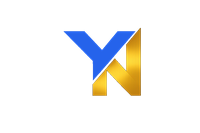
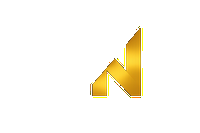
Use white Y in monogram and gold II in navbar wordmark.
Swap to a dark Y variant on the scrolled header so the mark stays visible on white backgrounds.

Changed region(s): [[0.3, 0.2105, 0.72, 0.7519]]

diff --git a/assets/js/main.js b/assets/js/main.js
@@ -3,11 +3,17 @@
   const menuButton = document.querySelector("[data-menu-button]");
   const navLinks = document.getElementById("site-nav");
   const hero = document.querySelector(".hero");
+  const markImg = document.querySelector(".brand-mark-img");
+  const markLight = markImg?.getAttribute("src") || "";
+  const markDark = markLight.replace("yniidi-mark.png", "yniidi-mark-dark.png");
 
   const onScroll = () => {
     if (!header) return;
     const useLight = !hero || window.scrollY > 40;
     header.classList.toggle("scrolled", useLight);
+    if (markImg && markLight) {
+      markImg.src = useLight ? markDark : markLight;
+    }
   };
 
   window.addEventListener("scroll", onScroll, { passive: true });

diff --git a/about/index.html b/about/index.html
@@ -39,7 +39,7 @@
     <div class="container nav">
       <a class="brand" href="../" aria-label="YNIIDI home">
         <img class="brand-mark-img" src="../assets/yniidi-mark.png" alt="" width="156" height="104" decoding="async">
-        <span class="brand-name">YNIIDI</span>
+        <span class="brand-name">YN<span class="brand-gold">II</span>DI</span>
       </a>
       <button class="menu-button" type="button" aria-expanded="false" aria-controls="site-nav" data-menu-button>
         <span></span><span></span><span></span>

diff --git a/contact/index.html b/contact/index.html
@@ -49,7 +49,7 @@
     <div class="container nav">
       <a class="brand" href="../" aria-label="YNIIDI home">
         <img class="brand-mark-img" src="../assets/yniidi-mark.png" alt="" width="156" height="104" decoding="async">
-        <span class="brand-name">YNIIDI</span>
+        <span class="brand-name">YN<span class="brand-gold">II</span>DI</span>
       </a>
       <button class="menu-button" type="button" aria-expanded="false" aria-controls="site-nav" data-menu-button>
         <span></span><span></span><span></span>

diff --git a/industries/index.html b/industries/index.html
@@ -47,7 +47,7 @@
     <div class="container nav">
       <a class="brand" href="../" aria-label="YNIIDI home">
         <img class="brand-mark-img" src="../assets/yniidi-mark.png" alt="" width="156" height="104" decoding="async">
-        <span class="brand-name">YNIIDI</span>
+        <span class="brand-name">YN<span class="brand-gold">II</span>DI</span>
       </a>
       <button class="menu-button" type="button" aria-expanded="false" aria-controls="site-nav" data-menu-button>
         <span></span><span></span><span></span>

diff --git a/innovation/index.html b/innovation/index.html
@@ -47,7 +47,7 @@
     <div class="container nav">
       <a class="brand" href="../" aria-label="YNIIDI home">
         <img class="brand-mark-img" src="../assets/yniidi-mark.png" alt="" width="156" height="104" decoding="async">
-        <span class="brand-name">YNIIDI</span>
+        <span class="brand-name">YN<span class="brand-gold">II</span>DI</span>
       </a>
       <button class="menu-button" type="button" aria-expanded="false" aria-controls="site-nav" data-menu-button>
         <span></span><span></span><span></span>

diff --git a/privacy-policy/index.html b/privacy-policy/index.html
@@ -24,7 +24,7 @@
     <div class="container nav">
       <a class="brand" href="../" aria-label="YNIIDI home">
         <img class="brand-mark-img" src="../assets/yniidi-mark.png" alt="" width="156" height="104" decoding="async">
-        <span class="brand-name">YNIIDI</span>
+        <span class="brand-name">YN<span class="brand-gold">II</span>DI</span>
       </a>
       <button class="menu-button" type="button" aria-expanded="false" aria-controls="site-nav" data-menu-button>
         <span></span><span></span><span></span>

diff --git a/products/index.html b/products/index.html
@@ -44,7 +44,7 @@
     <div class="container nav">
       <a class="brand" href="../" aria-label="YNIIDI home">
         <img class="brand-mark-img" src="../assets/yniidi-mark.png" alt="" width="156" height="104" decoding="async">
-        <span class="brand-name">YNIIDI</span>
+        <span class="brand-name">YN<span class="brand-gold">II</span>DI</span>
       </a>
       <button class="menu-button" type="button" aria-expanded="false" aria-controls="site-nav" data-menu-button>
         <span></span><span></span><span></span>

diff --git a/resources/index.html b/resources/index.html
@@ -46,7 +46,7 @@
     <div class="container nav">
       <a class="brand" href="../" aria-label="YNIIDI home">
         <img class="brand-mark-img" src="../assets/yniidi-mark.png" alt="" width="156" height="104" decoding="async">
-        <span class="brand-name">YNIIDI</span>
+        <span class="brand-name">YN<span class="brand-gold">II</span>DI</span>
       </a>
       <button class="menu-button" type="button" aria-expanded="false" aria-controls="site-nav" data-menu-button>
         <span></span><span></span><span></span>

diff --git a/solutions/index.html b/solutions/index.html
@@ -40,7 +40,7 @@
     <div class="container nav">
       <a class="brand" href="../" aria-label="YNIIDI home">
         <img class="brand-mark-img" src="../assets/yniidi-mark.png" alt="" width="156" height="104" decoding="async">
-        <span class="brand-name">YNIIDI</span>
+        <span class="brand-name">YN<span class="brand-gold">II</span>DI</span>
       </a>
       <button class="menu-button" type="button" aria-expanded="false" aria-controls="site-nav" data-menu-button>
         <span></span><span></span><span></span>

diff --git a/terms-of-service/index.html b/terms-of-service/index.html
@@ -24,7 +24,7 @@
     <div class="container nav">
       <a class="brand" href="../" aria-label="YNIIDI home">
         <img class="brand-mark-img" src="../assets/yniidi-mark.png" alt="" width="156" height="104" decoding="async">
-        <span class="brand-name">YNIIDI</span>
+        <span class="brand-name">YN<span class="brand-gold">II</span>DI</span>
       </a>
       <button class="menu-button" type="button" aria-expanded="false" aria-controls="site-nav" data-menu-button>
         <span></span><span></span><span></span>

diff --git a/vision/index.html b/vision/index.html
@@ -47,7 +47,7 @@
     <div class="container nav">
       <a class="brand" href="../" aria-label="YNIIDI home">
         <img class="brand-mark-img" src="../assets/yniidi-mark.png" alt="" width="156" height="104" decoding="async">
-        <span class="brand-name">YNIIDI</span>
+        <span class="brand-name">YN<span class="brand-gold">II</span>DI</span>
       </a>
       <button class="menu-button" type="button" aria-expanded="false" aria-controls="site-nav" data-menu-button>
         <span></span><span></span><span></span>

diff --git a/index.html b/index.html
@@ -63,7 +63,7 @@
     <div class="container nav">
       <a class="brand" href="./" aria-label="YNIIDI home">
         <img class="brand-mark-img" src="assets/yniidi-mark.png" alt="" width="156" height="104" decoding="async">
-        <span class="brand-name">YNIIDI</span>
+        <span class="brand-name">YN<span class="brand-gold">II</span>DI</span>
       </a>
       <button class="menu-button" type="button" aria-expanded="false" aria-controls="site-nav" data-menu-button>
         <span></span><span></span><span></span>
